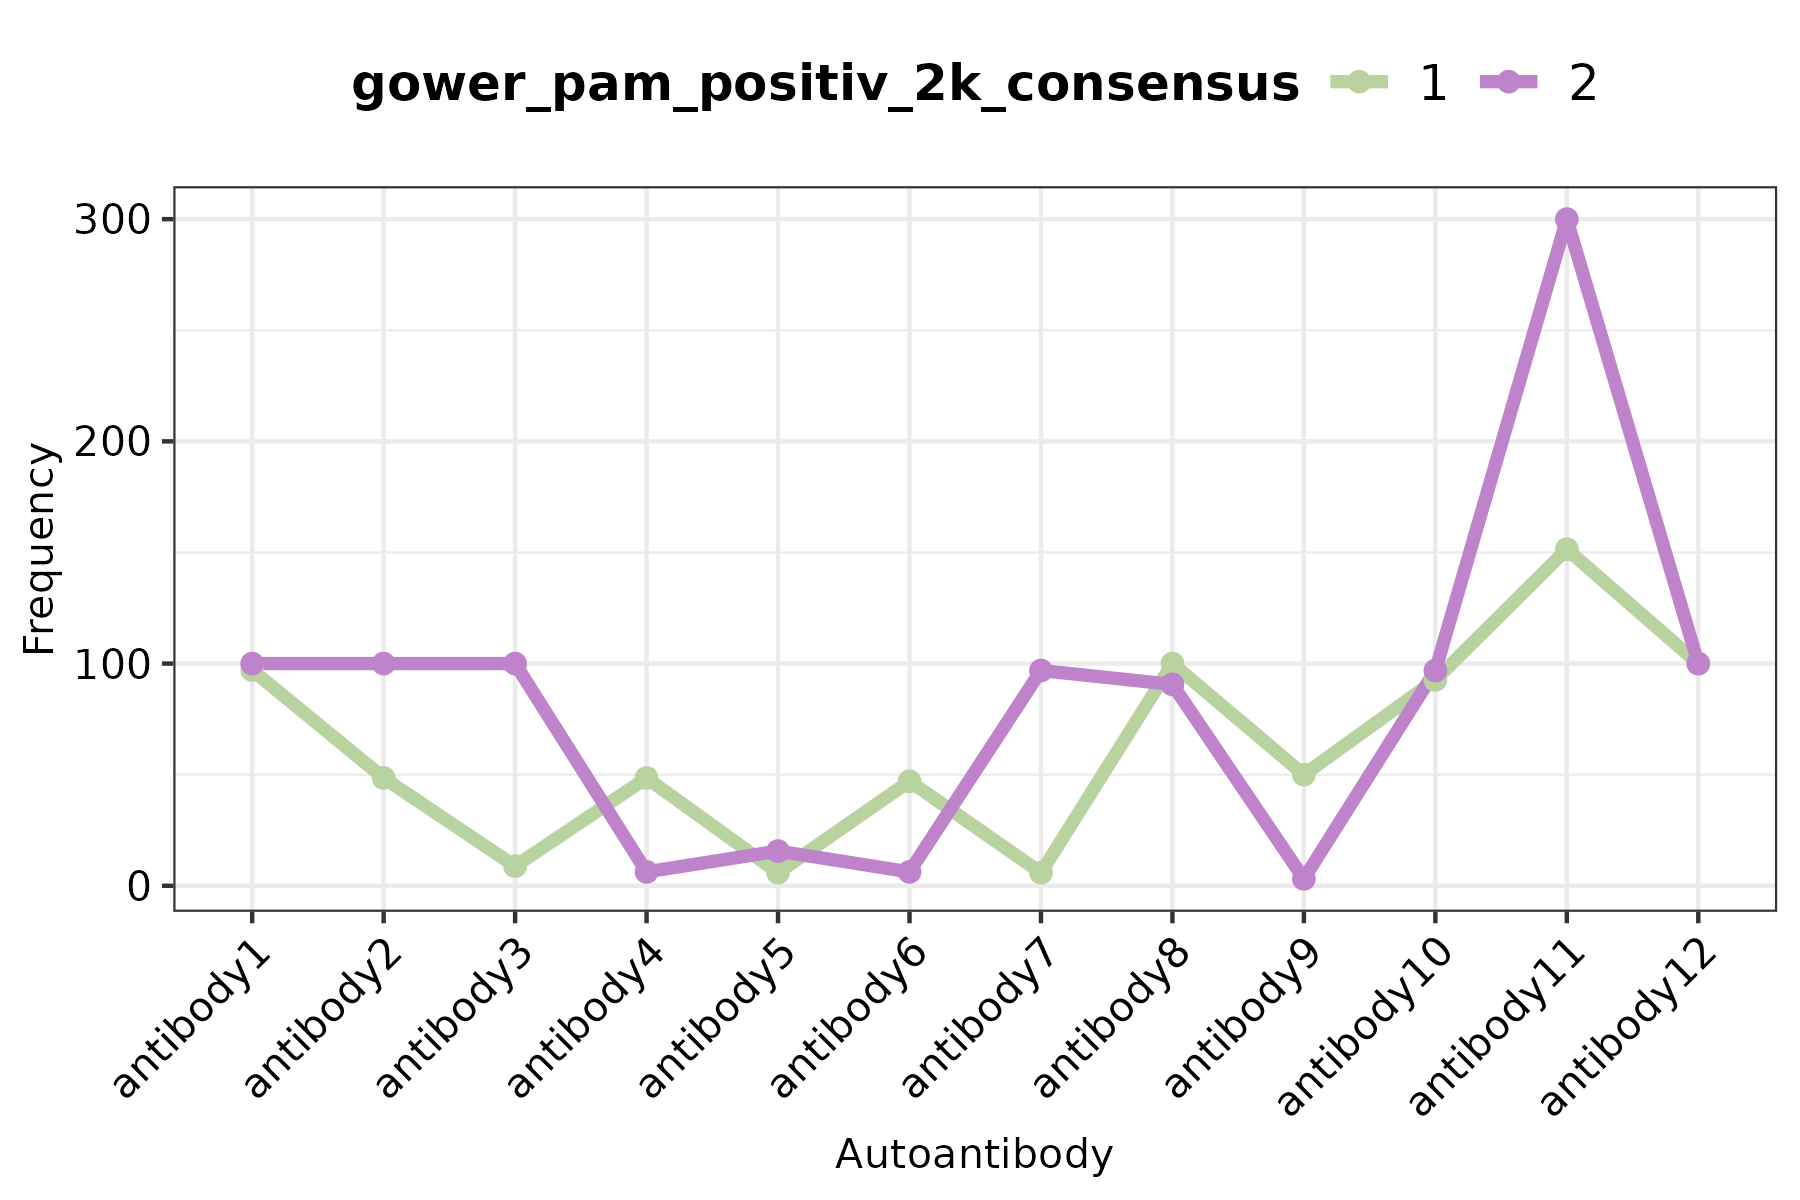
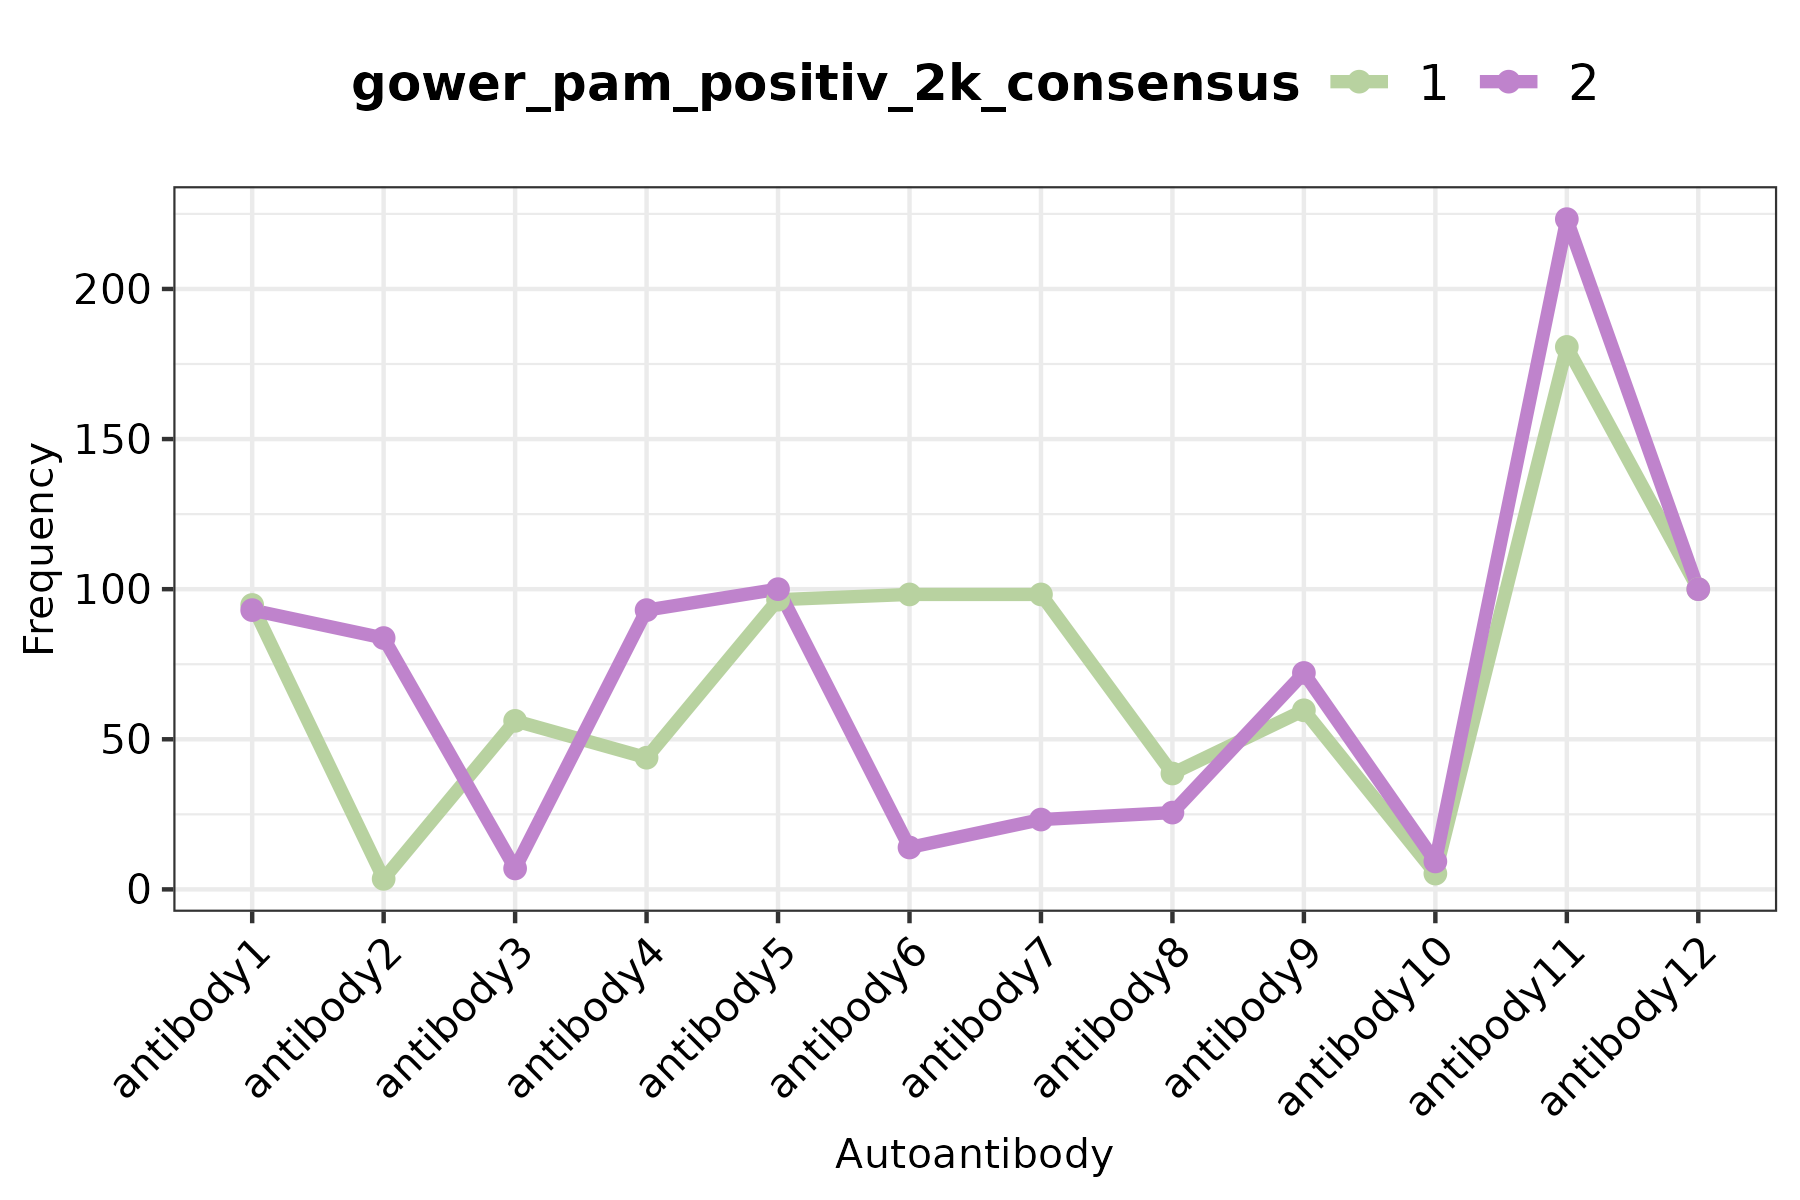
Deploying to gh-pages from @ Anacristina0914/autoclust@5525128db0d23c539ec8eec9d433c0f164592581 🚀

diff --git a/articles/autoclust.html b/articles/autoclust.html
@@ -84,19 +84,19 @@ data is located in your computer.</p>
 <span><span class="co"># Explore dataset</span></span>
 <span><span class="fu"><a href="https://rdrr.io/r/utils/head.html" class="external-link">head</a></span><span class="op">(</span><span class="va">clinical_data_df</span><span class="op">)</span></span></code></pre></div>
 <pre><code><span><span class="co">##         antibody1 antibody2 antibody3 antibody4 antibody5 antibody6 antibody7</span></span>
-<span><span class="co">## sample1         1         0         0         1         0         0         0</span></span>
-<span><span class="co">## sample2         1         0         0         1         0         0         1</span></span>
-<span><span class="co">## sample3         1         0         0         1         0         0         0</span></span>
-<span><span class="co">## sample4         1         0         0         1         0         0         0</span></span>
-<span><span class="co">## sample5         1         1         0         1         0         0         0</span></span>
-<span><span class="co">## sample6         1         1         0         1         0         0         0</span></span>
+<span><span class="co">## sample1         1         0         1         0         1         1         1</span></span>
+<span><span class="co">## sample2         1         0         1         0         1         1         1</span></span>
+<span><span class="co">## sample3         1         0         1         0         1         1         1</span></span>
+<span><span class="co">## sample4         1         0         1         0         0         1         1</span></span>
+<span><span class="co">## sample5         1         0         1         0         1         1         1</span></span>
+<span><span class="co">## sample6         1         0         1         0         1         1         1</span></span>
 <span><span class="co">##         antibody8 antibody9 antibody10 antibody11 antibody12</span></span>
-<span><span class="co">## sample1         1         0          0          1          1</span></span>
-<span><span class="co">## sample2         1         0          1          1          1</span></span>
-<span><span class="co">## sample3         1         0          0          1          1</span></span>
-<span><span class="co">## sample4         1         0          1          1          1</span></span>
-<span><span class="co">## sample5         1         0          1          1          1</span></span>
-<span><span class="co">## sample6         1         0          1          1          1</span></span></code></pre>
+<span><span class="co">## sample1         0         1          0          1          1</span></span>
+<span><span class="co">## sample2         0         1          0          1          1</span></span>
+<span><span class="co">## sample3         0         1          0          1          1</span></span>
+<span><span class="co">## sample4         0         1          0          1          1</span></span>
+<span><span class="co">## sample5         0         1          0          1          1</span></span>
+<span><span class="co">## sample6         0         1          0          1          1</span></span></code></pre>
 <div class="sourceCode" id="cb4"><pre class="downlit sourceCode r">
 <code class="sourceCode R"><span><span class="co"># Establish a directory where to save your results</span></span>
 <span><span class="va">output_data_dir</span> <span class="op">&lt;-</span> <span class="st">"."</span> <span class="co"># This will save the results in the current working directory. You can change it for whatever you want.</span></span></code></pre></div>

diff --git a/index.html b/index.html
@@ -46,9 +46,9 @@
 </nav><div class="container template-home">
 <div class="row">
   <main id="main" class="col-md-9"><div class="section level1">
-<div class="page-header"><h1 id="autoclust">autoclust<a class="anchor" aria-label="anchor" href="#autoclust"></a>
+<div class="page-header"><h1 id="autoclust-">autoclust <img src="reference/figures/logo.png" align="right" width="120"><a class="anchor" aria-label="anchor" href="#autoclust-"></a>
 </h1></div>
-<p><a href="LICENSE"><img src="https://img.shields.io/badge/license-MIT-blue.svg" alt="License: MIT"></a> <a href="https://github.com/Anacristina0914/autoclust/releases" class="external-link"><img src="https://img.shields.io/github/v/release/Anacristina0914/autoclust" alt="GitHub release"></a><br><a href="https://doi.org/10.5281/zenodo.17569306" class="external-link"><img src="https://zenodo.org/badge/887137273.svg" alt="DOI"></a></p>
+<p><a href="https://github.com/Anacristina0914/autoclust/actions/workflows/R-CMD-check.yml" class="external-link"><img src="https://github.com/Anacristina0914/autoclust/actions/workflows/R-CMD-check.yml/badge.svg" alt="R-CMD-check"></a> <a href="LICENSE"><img src="https://img.shields.io/badge/license-MIT-blue.svg" alt="License: MIT"></a> <a href="https://github.com/Anacristina0914/autoclust/releases" class="external-link"><img src="https://img.shields.io/github/v/release/Anacristina0914/autoclust" alt="GitHub release"></a></p>
 <blockquote>
 <p>Automated clustering and association testing for patient stratification using antibody, proteomic, and clinical data.</p>
 </blockquote>

diff --git a/articles/autoclust.md b/articles/autoclust.md
@@ -32,19 +32,19 @@ head(clinical_data_df)
 ```
 
     ##         antibody1 antibody2 antibody3 antibody4 antibody5 antibody6 antibody7
-    ## sample1         1         0         0         1         0         0         0
-    ## sample2         1         0         0         1         0         0         1
-    ## sample3         1         0         0         1         0         0         0
-    ## sample4         1         0         0         1         0         0         0
-    ## sample5         1         1         0         1         0         0         0
-    ## sample6         1         1         0         1         0         0         0
+    ## sample1         1         0         1         0         1         1         1
+    ## sample2         1         0         1         0         1         1         1
+    ## sample3         1         0         1         0         1         1         1
+    ## sample4         1         0         1         0         0         1         1
+    ## sample5         1         0         1         0         1         1         1
+    ## sample6         1         0         1         0         1         1         1
     ##         antibody8 antibody9 antibody10 antibody11 antibody12
-    ## sample1         1         0          0          1          1
-    ## sample2         1         0          1          1          1
-    ## sample3         1         0          0          1          1
-    ## sample4         1         0          1          1          1
-    ## sample5         1         0          1          1          1
-    ## sample6         1         0          1          1          1
+    ## sample1         0         1          0          1          1
+    ## sample2         0         1          0          1          1
+    ## sample3         0         1          0          1          1
+    ## sample4         0         1          0          1          1
+    ## sample5         0         1          0          1          1
+    ## sample6         0         1          0          1          1
 
 ``` r
 # Establish a directory where to save your results

diff --git a/index.md b/index.md
@@ -1,10 +1,10 @@
-# autoclust
+# autoclust ![](reference/figures/logo.png)
 
+[![R-CMD-check](https://github.com/Anacristina0914/autoclust/actions/workflows/R-CMD-check.yml/badge.svg)](https://github.com/Anacristina0914/autoclust/actions/workflows/R-CMD-check.yml)
 [![License:
 MIT](https://img.shields.io/badge/license-MIT-blue.svg)](LICENSE)
 [![GitHub
-release](https://img.shields.io/github/v/release/Anacristina0914/autoclust)](https://github.com/Anacristina0914/autoclust/releases)  
-[![DOI](https://zenodo.org/badge/887137273.svg)](https://doi.org/10.5281/zenodo.17569306)
+release](https://img.shields.io/github/v/release/Anacristina0914/autoclust)](https://github.com/Anacristina0914/autoclust/releases)
 
 > Automated clustering and association testing for patient
 > stratification using antibody, proteomic, and clinical data.
